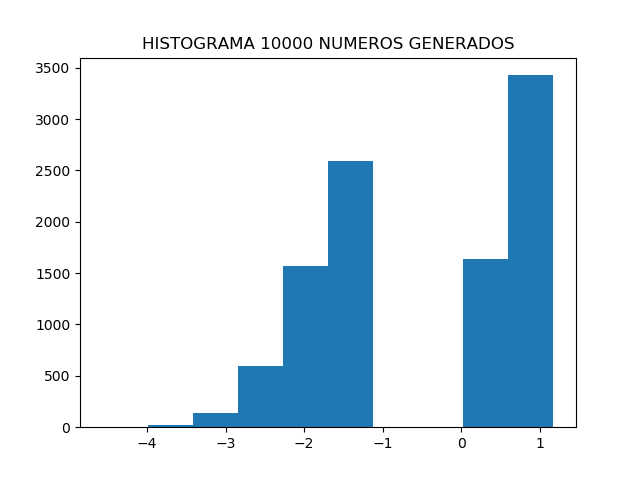
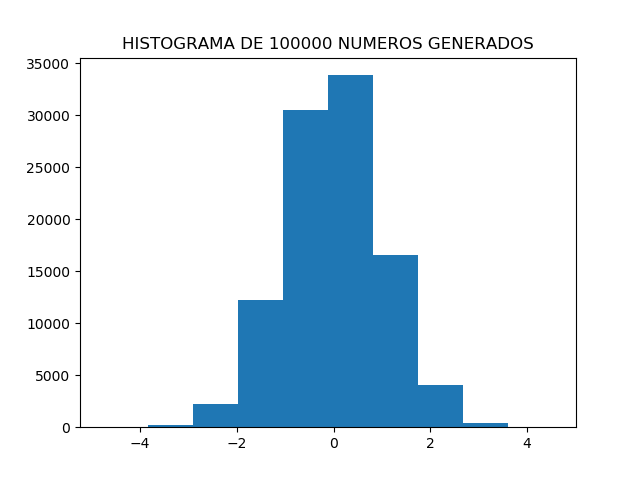
ejercicio 3

diff --git a/tp1/ejercicio3.py b/tp1/ejercicio3.py
@@ -1,82 +1,51 @@
-from util.general import *
-
-class Uniform_distribution:
-	def __init__(self, a, b):
-		if(a > b):
-			raise ValueError('[a,b] must be an interval.')
-		self.a = a
-		self.b = b
-
-	def generate(self,u):
-		x = u*(self.b-self.a)+self.a
-		return x
-
-	def generate_list(self, n):
-		generator = generador.GeneradorLinealCongruente()
-		l = generator.generar_lista(n)
-		for i in range(n):
-			l[i] = self.generate(l[i])
-
-		return l
-	def get_media(self):
-		return (self.b+self.a)/2.0
-	def get_variance(self):
-		return ((self.b+self.a)**2)/12.0
- 
-
-class Normal_standar:
-	def __init__(self):
-		self.media = 0
-		self.desvio= 1
-		self.uniform = Uniform_distribution(0,1.0/math.sqrt(2.0*math.pi))
-
-	def density_function(self, x):
-		return (1.0/(math.sqrt(2.0*math.pi)))*math.exp(-(x**2)/2)
+import util.generador as generador
+from scipy.interpolate import interp1d
+import matplotlib.pyplot as plt
+import numpy as np
 
 
-	def generate_list(self, n):
-		l = self.uniform.generate_list(n)
-		g = generador.GeneradorLinealCongruente()
-		for i in range(n):
-			x = self.generate(l[i])
-			u2 = g.generar()
-			if(u2>0.5):
-				l[i] = x
-			else:
-				l[i] = -x
-		return l
+x=[0, 0.00003, 0.00135, 0.00621, 0.02275, 0.06681, 0.11507, 0.15866, 0.21186, 0.27425, 0.34458, 0.42074, 0.5, 0.57926, 0.65542, 0.72575, 0.78814, 0.84134, 0.88493, 0.93319, 0.97725, 0.99379, 0.99865, 0.99997, 1]
+y=[-5, -4, -3, -2.5, -2, -1.5, -1.2, -1, -0.8, -0.6, -0.4, -0.2, 0, 0.2, 0.4, 0.6, 0.8, 1, 1.2, 1.5, 2, 2.5, 3, 4, 5]
 
-	def generate(self,u):
-		limit = 1.0/math.sqrt(2.0*math.pi)
-		if( u < 0 or u > limit):
-			raise ValueError(' u =%d must be smaller than %f.' %(u, limit))
+# Con estos valores de X e Y obtengo lo que aparenta ser la inversa de una CDF de normal
+# Si intercambio X e Y obtengo la CDF de una normal
+f = interp1d(x, y)
+plt.plot(x, y)
+plt.title("DEBERIA SER LA INVERSA DE LA CDF DE UNA NORMAL")
+plt.show()
 
-		x = math.sqrt(-2.0*math.log(u*math.sqrt(2.0*math.pi)))
-		return x
+class GeneradorNormal:
+  def __init__(self):
+    self.generador = generador.GeneradorLinealCongruente()
+    self.inverse = interp1d(x, y)
+
+  def generar(self):
+    u = self.generador.generar()
+
+    return self.inverse(u)
+
+  def generar_lista(self, cantidad):
+    lista = []
+
+    for i in range(cantidad):
+      lista.append(self.generar())
+
+    return lista
 
 
-	def get_media(self):
-		return self.media
+g = GeneradorNormal()
 
-	def get_moda(self):
-		return self.media
+print("GENERAR HISTOGRAMA")
+lista = g.generar_lista(100000)
+plt.hist(lista)
+plt.title("HISTOGRAMA DE 100000 NUMEROS GENERADOS")
+plt.savefig('./graficos/ejercicio3-histograma.png')
+plt.show()
+print("FIN GENERAR HISTOGRAMA")
+print("\n")
 
-	def get_variance(self):
-		return self.desvio
 
-if __name__ == '__main__':
-	print("######################################################")
-	print("EJERCICIO 3")
-	print("######################################################")
-	print("\n")
-
-	cant = 10000
-	normal = Normal_standar()
-	l = normal.generate_list(cant)
-	generate_histogram(l, "HISTOGRAMA %d NUMEROS GENERADOS" %(cant),'./graficos/ejercicio3-histograma.png');
-
-	print("La media teorica de una V.A uniforme es: %f" %(normal.get_media()))
-	print("La media es: %f" %(get_media(l)) )
-	print("La varianza teorica de una v.A uniforme es: %f" %(normal.get_variance()))
-	print("La varianza experimental es: %f" %(get_variance(l)))
-	print("La moda es: %f" %(get_modas(l)))
+print("La media deberia de una normal estandar debreia ser 0")
+print("La media es: %f" % (np.mean(lista)))
+print("La varianza deberia ser 1")
+print("La varianza es: %f" % (np.var(lista)))
